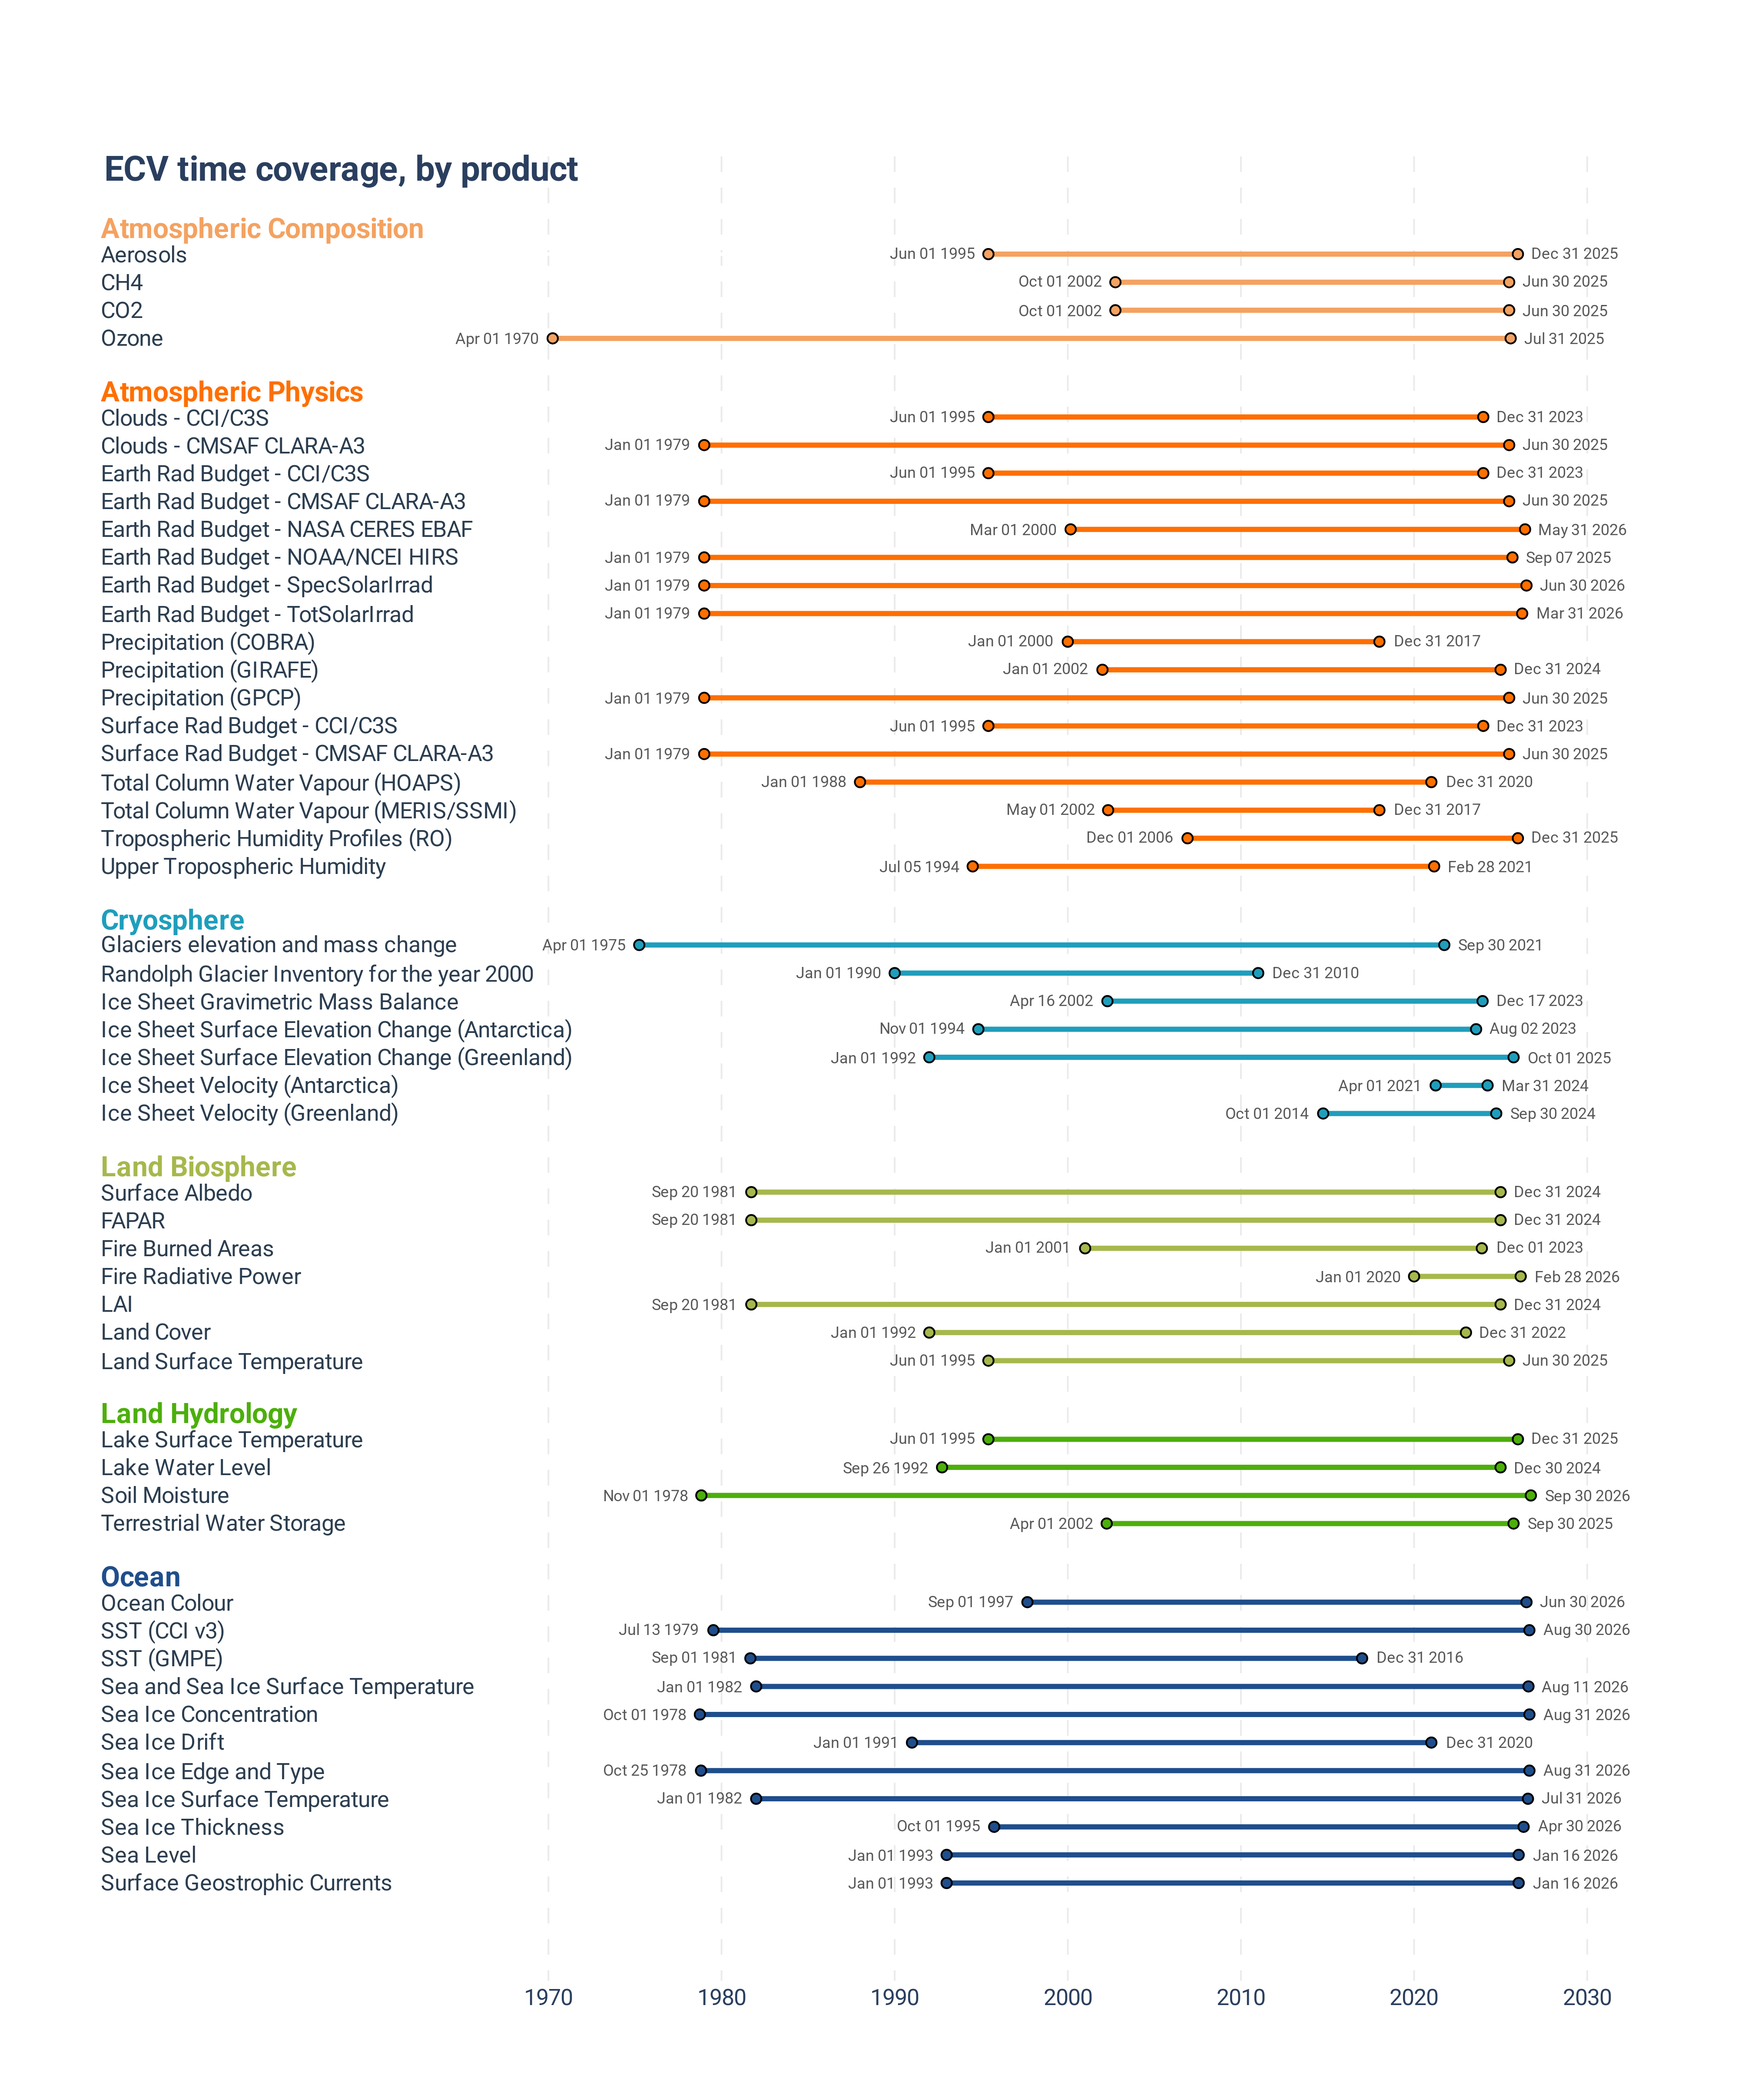
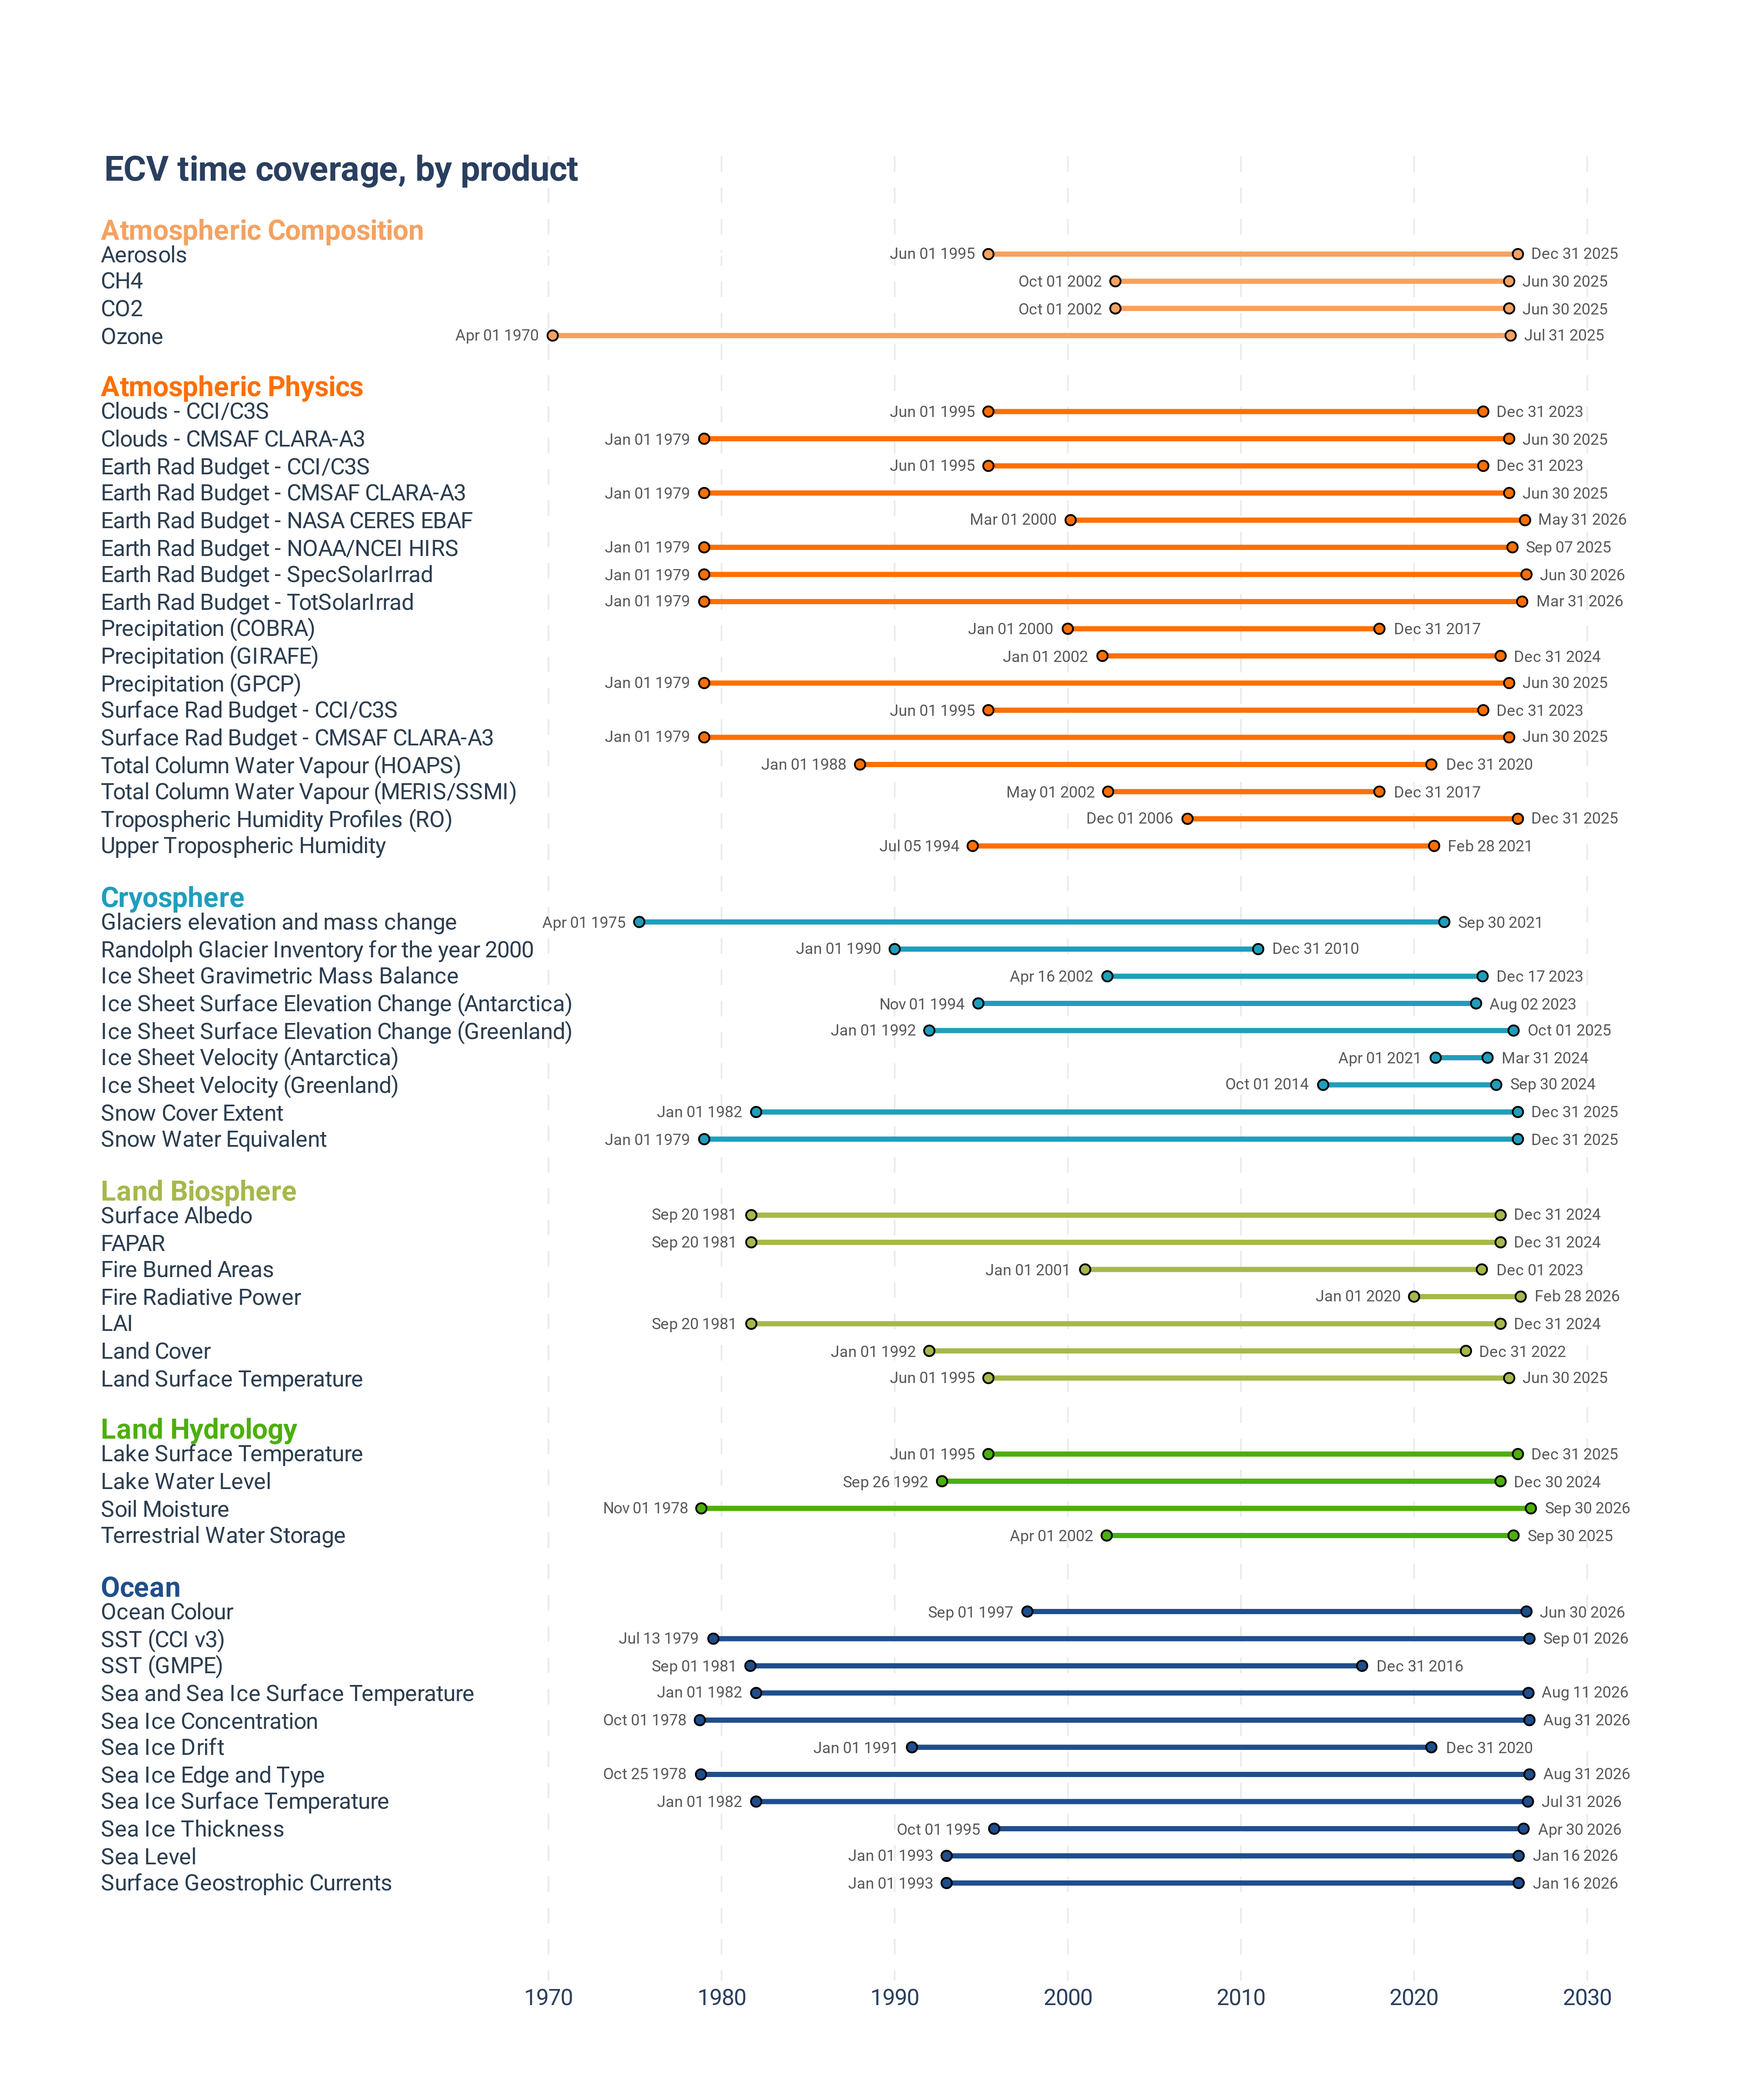
added SWE and SCE

Changed region(s): [[0.0625, 0.125, 0.9375, 0.9062], [0.375, 0.6875, 0.9375, 0.9062], [0.625, 0.125, 0.875, 0.1562]]

diff --git a/coverage_changelog.html b/coverage_changelog.html
@@ -31,8 +31,8 @@
 </head>
 <body>
 <h1>C3S ECV time coverage &mdash; change log</h1>
-<p class="meta">5 change(s) in the run of 16 Sep 2026; 5 change(s) recorded in total, across 50 tracked products.<br>
-Generated 16 Sep 2026 13:15 UTC &middot;
+<p class="meta">8 change(s) in the run of 16 Sep 2026; 8 change(s) recorded in total, across 52 tracked products.<br>
+Generated 16 Sep 2026 13:44 UTC &middot;
 <a href="temporal_coverage_by_Product_latest.png">current figure</a> &middot;
 <a href="coverage_changelog.csv">changelog CSV</a> &middot;
 <a href="coverage_state.csv">current coverage CSV</a></p>
@@ -40,8 +40,11 @@ Generated 16 Sep 2026 13:15 UTC &middot;
 <thead><tr><th>Run</th><th>Change</th><th>Product</th><th>ECV</th><th>Thematic hub</th><th>Coverage before</th><th>Coverage after</th></tr></thead>
 <tbody>
 <tr><td class="dates">2026-09-16</td><td><span class="badge" style="color:#1f6b27;background:#e5f3e7">extended</span></td><td class="product">Aerosols</td><td class="ecv">Aerosols</td><td class="hub">Atmospheric Composition</td><td class="dates">1995-06-01<span class="arrow">&rarr;</span>2025-07-31</td><td class="dates">1995-06-01<span class="arrow">&rarr;</span>2025-12-31</td></tr>
+<tr><td class="dates">2026-09-16</td><td><span class="badge" style="color:#14406e;background:#e4ecf6">added</span></td><td class="product">Snow Cover Extent</td><td class="ecv">Snow</td><td class="hub">Cryosphere</td><td class="dates"><span class="none">&mdash;</span></td><td class="dates">1982-01-01<span class="arrow">&rarr;</span>2025-12-31</td></tr>
+<tr><td class="dates">2026-09-16</td><td><span class="badge" style="color:#14406e;background:#e4ecf6">added</span></td><td class="product">Snow Water Equivalent</td><td class="ecv">Snow</td><td class="hub">Cryosphere</td><td class="dates"><span class="none">&mdash;</span></td><td class="dates">1979-01-01<span class="arrow">&rarr;</span>2025-12-31</td></tr>
 <tr><td class="dates">2026-09-16</td><td><span class="badge" style="color:#1f6b27;background:#e5f3e7">extended</span></td><td class="product">Soil Moisture</td><td class="ecv">Soil Moisture</td><td class="hub">Land Hydrology</td><td class="dates">1978-11-01<span class="arrow">&rarr;</span>2026-08-31</td><td class="dates">1978-11-01<span class="arrow">&rarr;</span>2026-09-30</td></tr>
 <tr><td class="dates">2026-09-16</td><td><span class="badge" style="color:#1f6b27;background:#e5f3e7">extended</span></td><td class="product">SST (CCI v3)</td><td class="ecv">SST</td><td class="hub">Ocean</td><td class="dates">1979-07-13<span class="arrow">&rarr;</span>2026-08-29</td><td class="dates">1979-07-13<span class="arrow">&rarr;</span>2026-08-30</td></tr>
+<tr><td class="dates">2026-09-16</td><td><span class="badge" style="color:#1f6b27;background:#e5f3e7">extended</span></td><td class="product">SST (CCI v3)</td><td class="ecv">SST</td><td class="hub">Ocean</td><td class="dates">1979-07-13<span class="arrow">&rarr;</span>2026-08-30</td><td class="dates">1979-07-13<span class="arrow">&rarr;</span>2026-09-01</td></tr>
 <tr><td class="dates">2026-09-16</td><td><span class="badge" style="color:#1f6b27;background:#e5f3e7">extended</span></td><td class="product">Sea Ice Concentration</td><td class="ecv">Sea Ice</td><td class="hub">Ocean</td><td class="dates">1978-10-01<span class="arrow">&rarr;</span>2026-08-29</td><td class="dates">1978-10-01<span class="arrow">&rarr;</span>2026-08-31</td></tr>
 <tr><td class="dates">2026-09-16</td><td><span class="badge" style="color:#1f6b27;background:#e5f3e7">extended</span></td><td class="product">Sea Ice Edge and Type</td><td class="ecv">Sea Ice</td><td class="hub">Ocean</td><td class="dates">1978-10-25<span class="arrow">&rarr;</span>2026-08-29</td><td class="dates">1978-10-25<span class="arrow">&rarr;</span>2026-08-31</td></tr>
 </tbody></table></div>

diff --git a/coverage_changes_latest.md b/coverage_changes_latest.md
@@ -1,3 +1,9 @@
 # ECV coverage changes, 20260916
 
-No change since the previous run (50 products).
+3 change(s) since the previous run.
+
+| change   | Product               | ECV   | Thematic Hub   | DateBeg_old   | DateEnd_old   | DateBeg_new   | DateEnd_new   |
+|:---------|:----------------------|:------|:---------------|:--------------|:--------------|:--------------|:--------------|
+| added    | Snow Cover Extent     | Snow  | Cryosphere     |               |               | 1982-01-01    | 2025-12-31    |
+| added    | Snow Water Equivalent | Snow  | Cryosphere     |               |               | 1979-01-01    | 2025-12-31    |
+| extended | SST (CCI v3)          | SST   | Ocean          | 1979-07-13    | 2026-08-30    | 1979-07-13    | 2026-09-01    |
